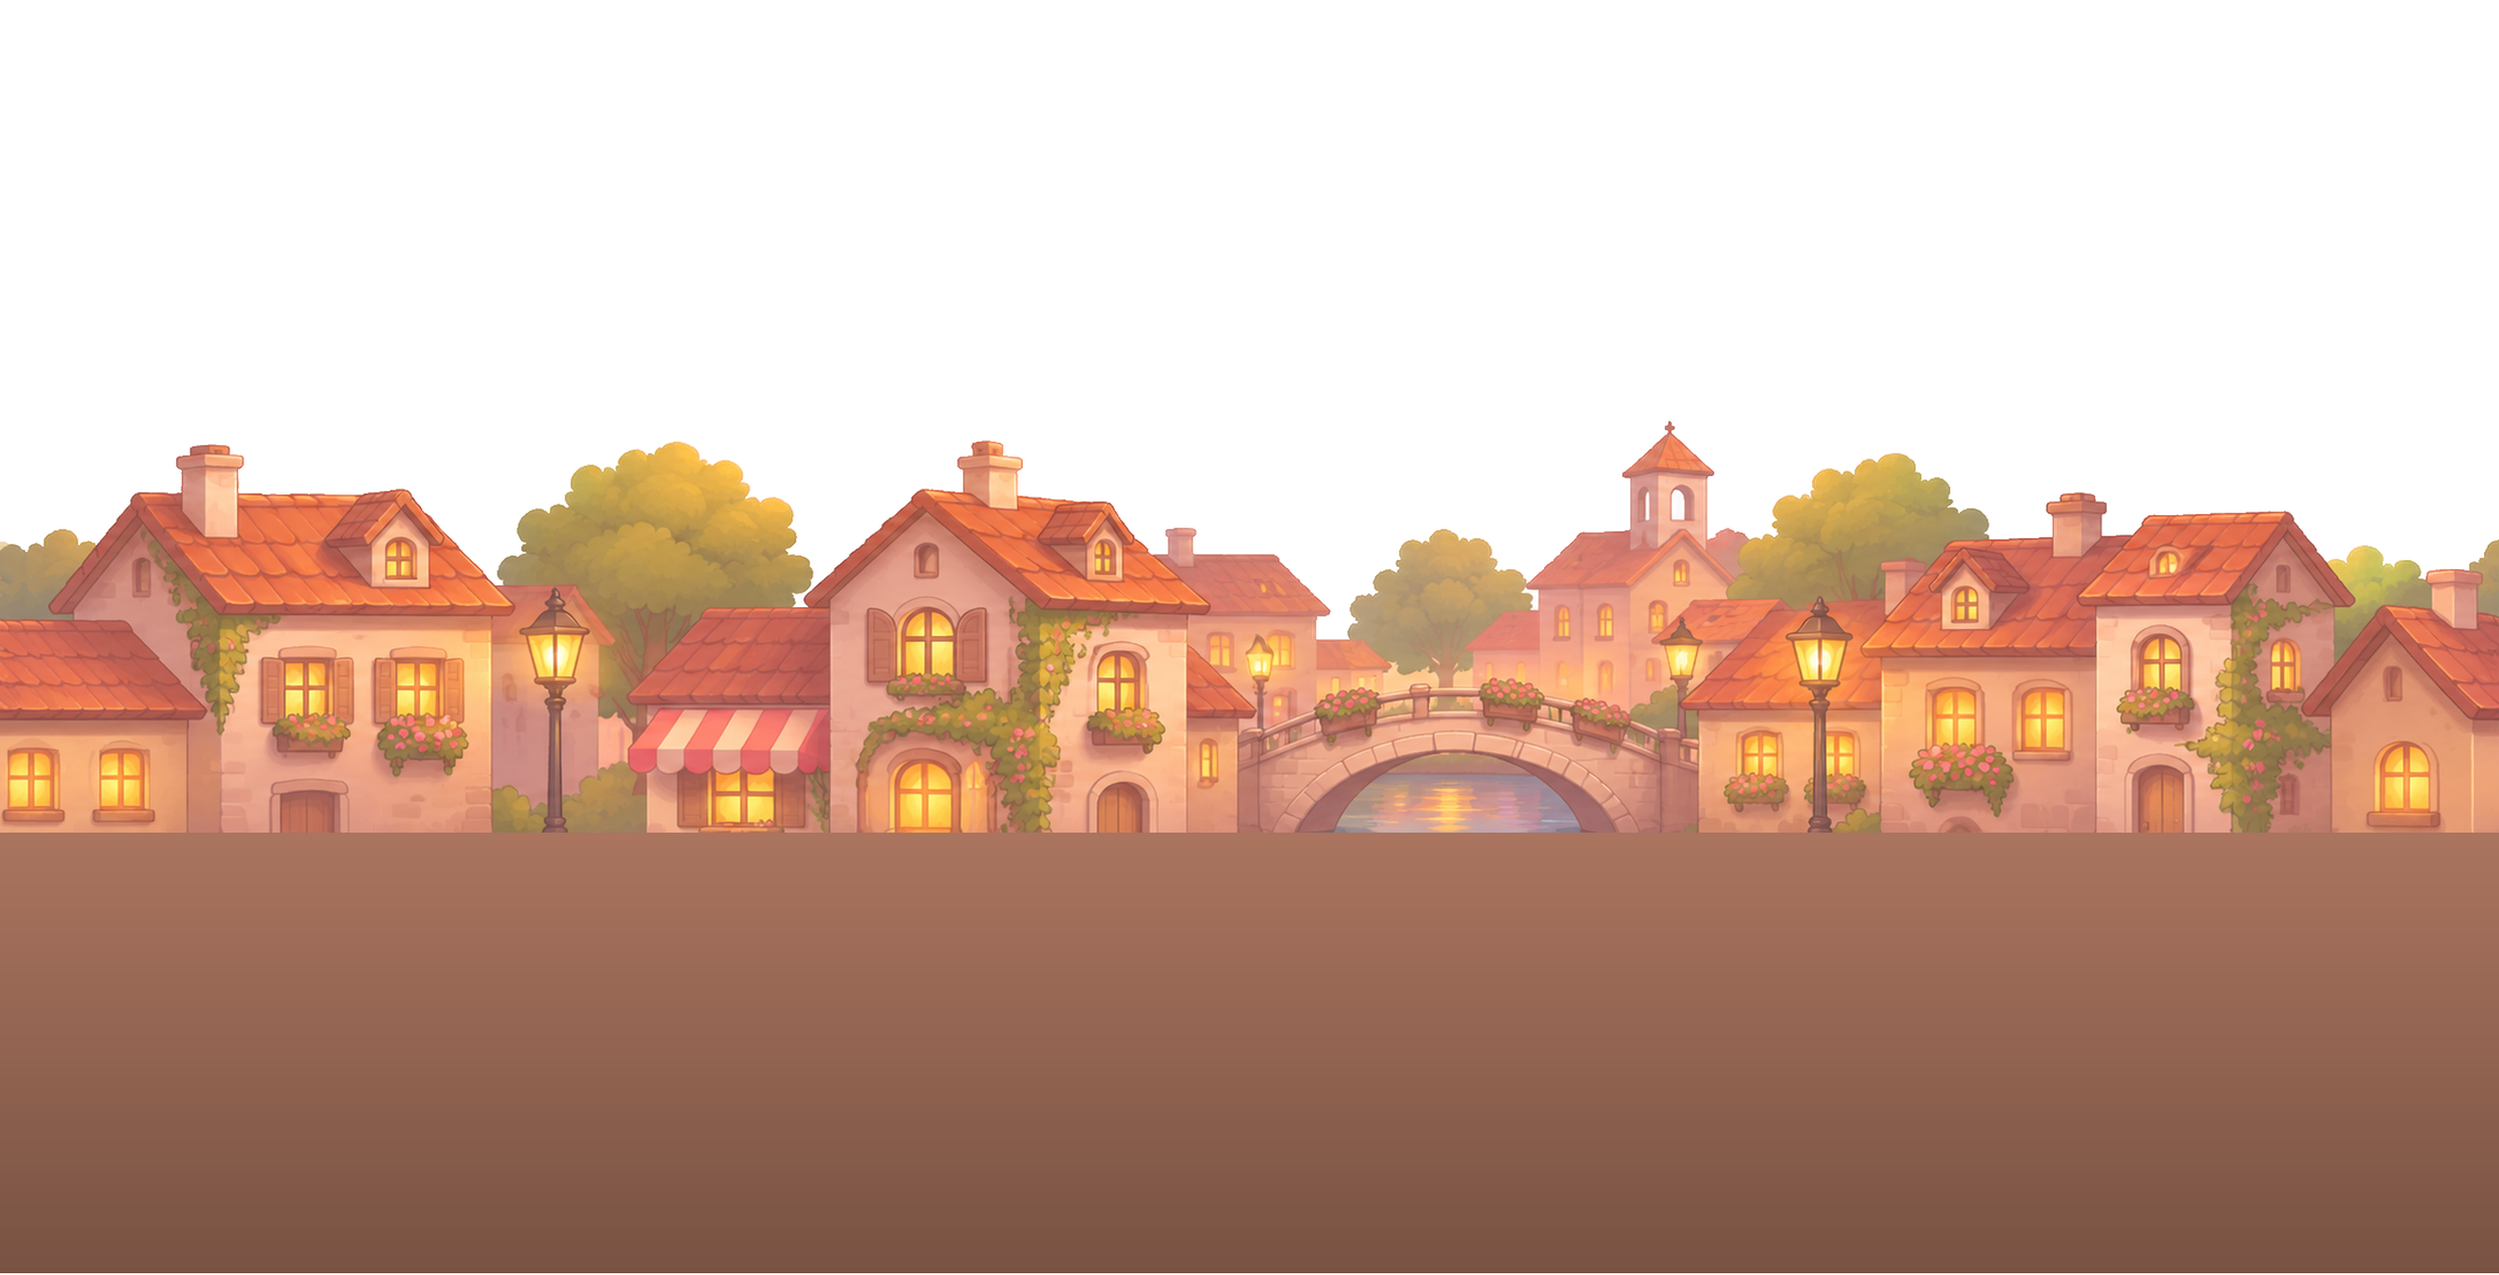
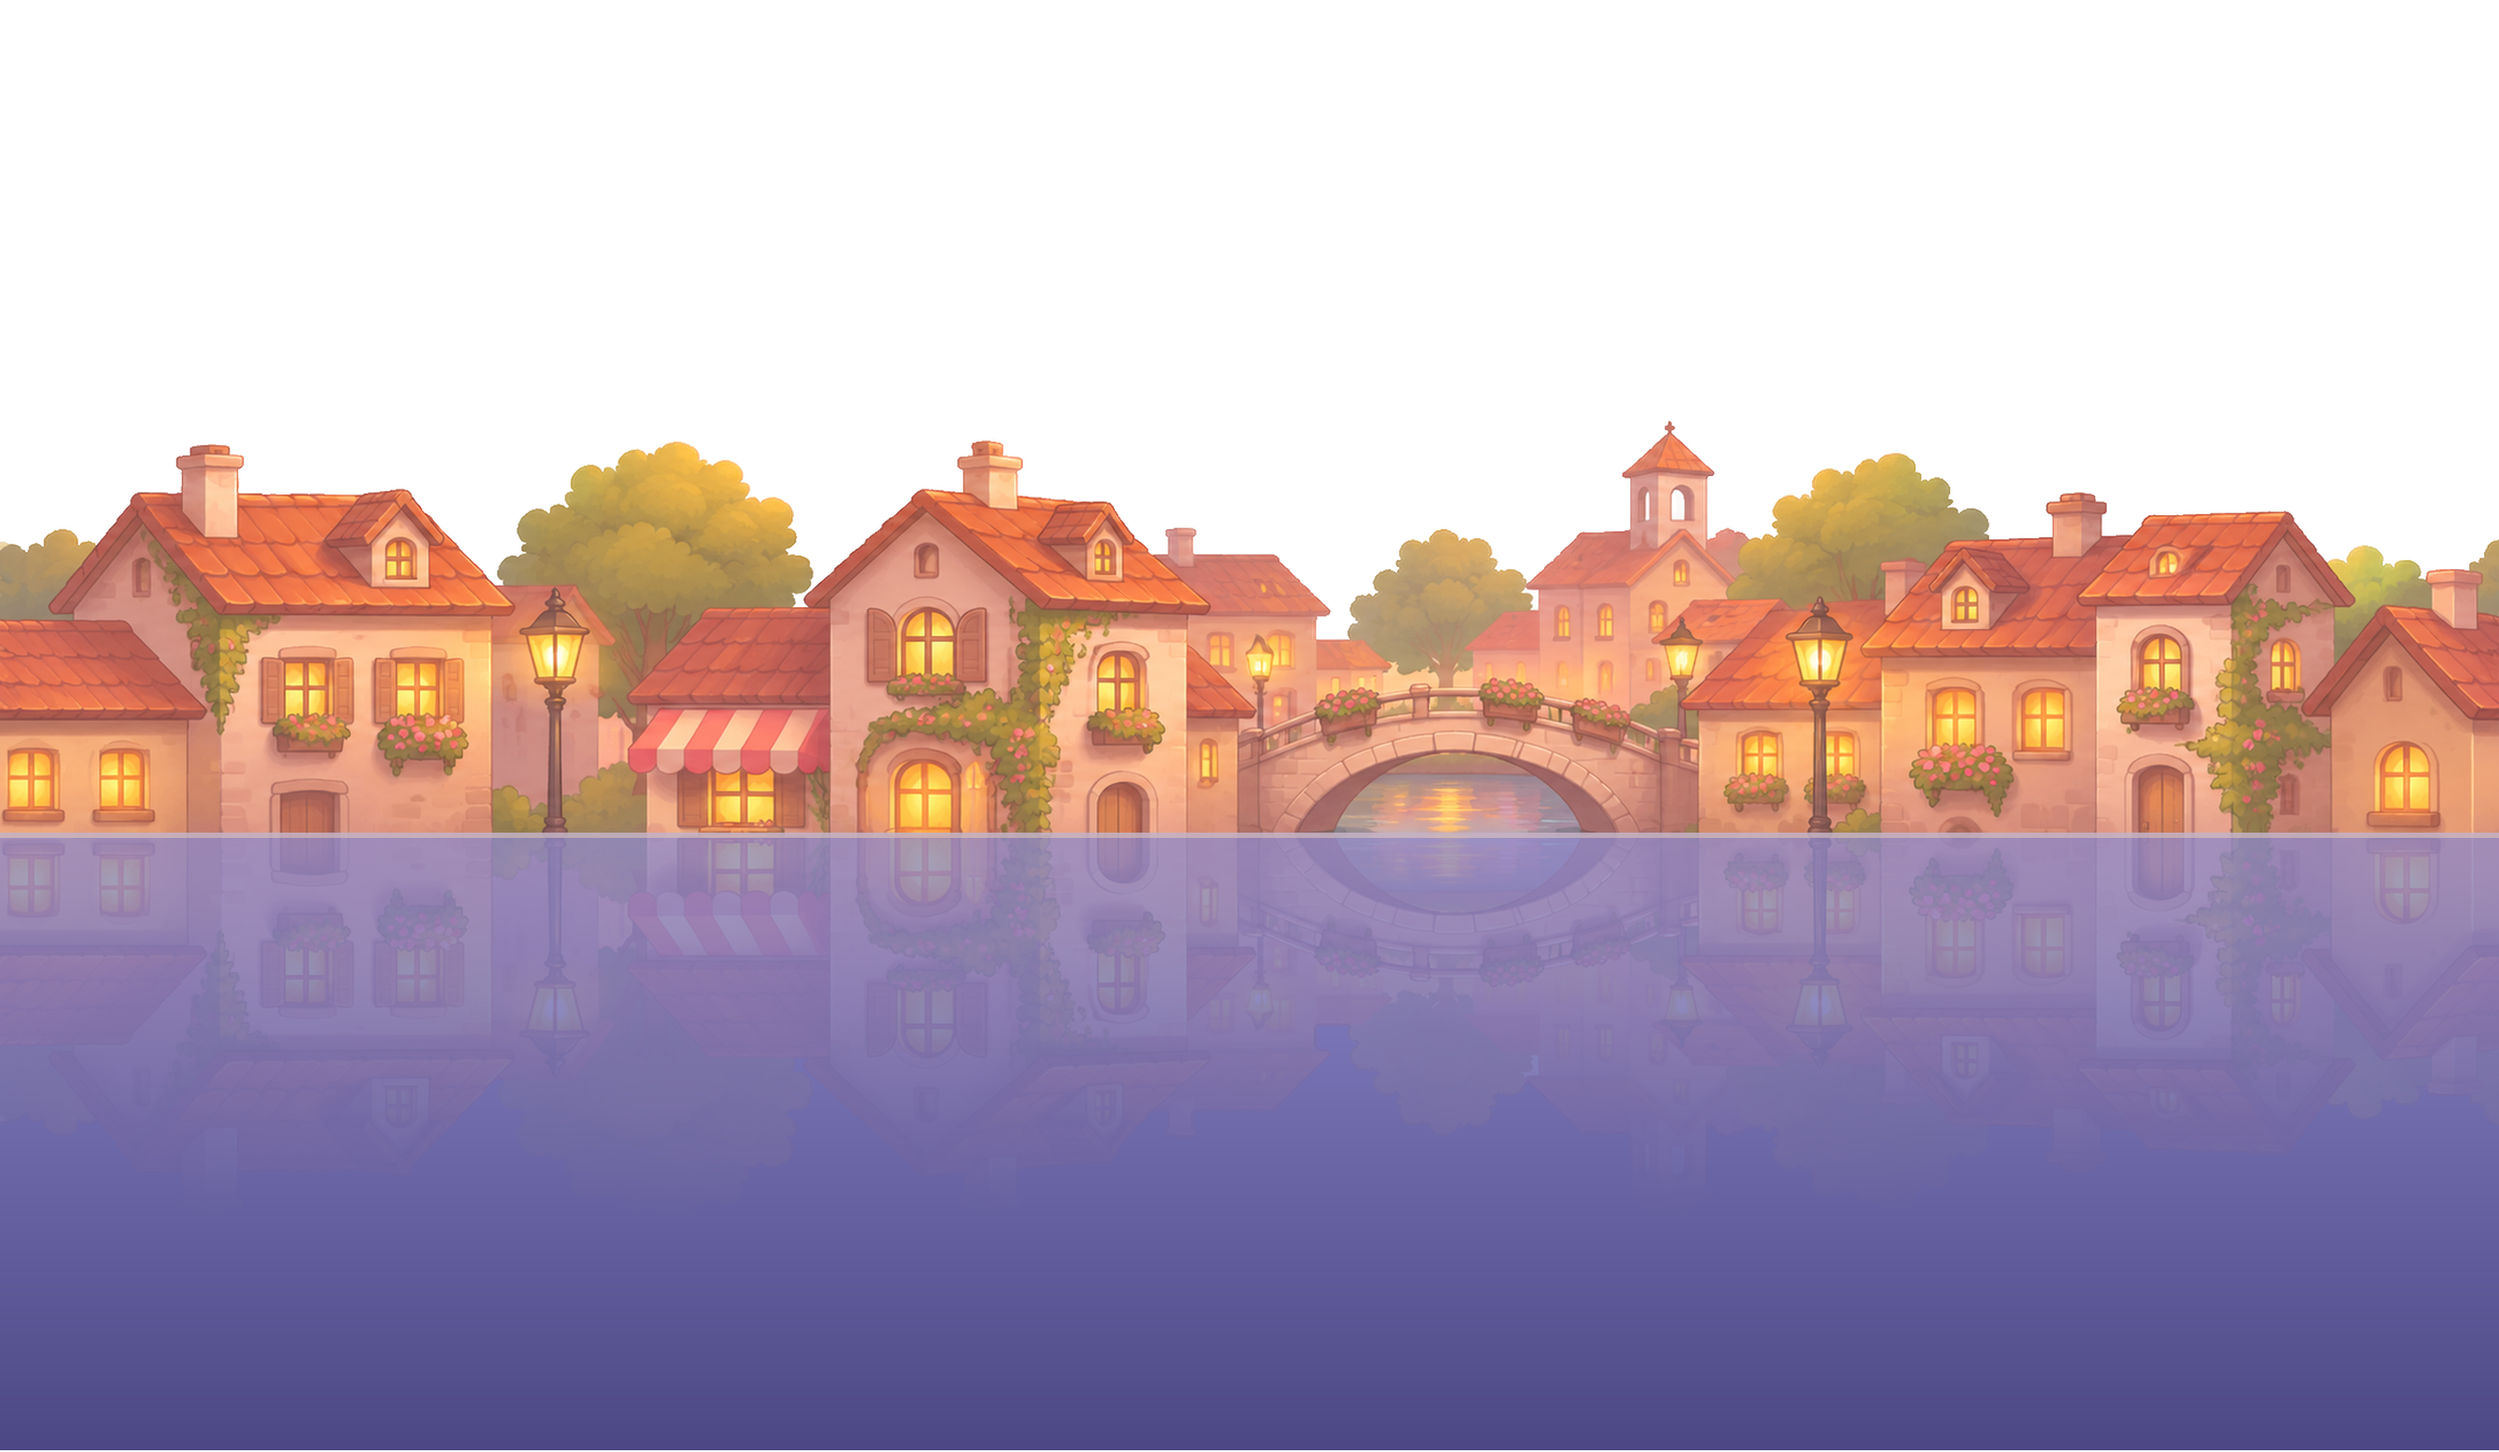
World 2 playtest fixes: canal reflection, orange slimes, variety notes
Looking down from high jumps now shows a canal reflecting the town instead
of a flat brown band. World 2's slimes use the hand-drawn orange slime.
Level-variety ideas for the next worlds recorded in plan.md.

diff --git a/tools/art_pipeline/make_town.py b/tools/art_pipeline/make_town.py
@@ -9,7 +9,8 @@ Ground (assets/art/tiles/town, same pieces as the World 1 meadow kit, see make_g
   decos  - lamp, planter, barrel, crates, bench, pot, bush, stone post
 Background (assets/art/backgrounds/town):
   far    - sunset sky, sun, hazy hills and town (top fades into the plain sky colour)
-  mid    - the row of houses, white sky cut away, a darkening wall continued below
+  mid    - the row of houses, white sky cut away; below them a canal (the World 2 water colours)
+           reflecting the houses upside down, so looking down from a high jump shows water, not a wall
 
 Run:  python tools/art_pipeline/make_town.py   (prints the numbers ground_block.gd uses)
 """
@@ -43,6 +44,10 @@ CRUMBLE_SCALE = 0.476   # roof tile ~300 px wide, like a short ledge
 CRUMBLE_ROWS = (220, 520)            # rows holding all 3 drawings incl. dust and falling bits (raw)
 CRUMBLE_LEFT = (42, 762, 1476)       # left edge of each drawing's box: platforms start 6 px in
 CRUMBLE_WIDTH = 642
+CANAL_ROWS = 700        # canal under the houses layer (game px; a high jump looks this far down)
+WATER_LIGHT = np.array([0.56, 0.54, 0.80])   # the World 2 water colours (water.gd TINTS["town"])
+WATER_DEEP = np.array([0.30, 0.28, 0.52])
+REFLECTION = 0.45       # how strongly the houses show in the water
 FAR_SCALE = 1.45
 MID_SCALE = 1.3
 
@@ -160,12 +165,19 @@ def main():
 
     mid = remove_background(load("Charming Sunset Canal Town Row.png"))
     mid = np.asarray(scaled(to_image(mid), MID_SCALE)).astype(np.float32)
-    wall = mid[-6:, :, :3].reshape(-1, 3)
-    wall = wall[mid[-6:, :, 3].reshape(-1) > 200].mean(axis=0)
-    below = np.zeros((500, mid.shape[1], 4), np.float32)
-    below[..., :3] = wall * np.linspace(0.85, 0.6, 500)[:, None, None]   # darker the deeper you look
-    below[..., 3] = 255
-    mid = np.concatenate([mid, below], axis=0)
+    # The canal: water from light to deep (as the World 2 water), with the houses mirrored in it,
+    # fading out with depth, and a soft bright line where the water meets the houses.
+    rows = CANAL_ROWS
+    water = np.zeros((rows, mid.shape[1], 4), np.float32)
+    depth = np.linspace(0.0, 1.0, rows)[:, None, None]
+    water[..., :3] = (WATER_LIGHT * (1.0 - depth) + WATER_DEEP * depth) * 255.0
+    water[..., 3] = 255
+    mirror = mid[::-1][:rows]
+    strength = (mirror[..., 3:] / 255.0) * REFLECTION * np.clip(1.0 - depth * 1.6, 0.0, 1.0)
+    tinted = mirror[..., :3] * 0.55 + water[..., :3] * 0.45   # the reflection takes on the water's colour
+    water[..., :3] = water[..., :3] * (1.0 - strength) + tinted * strength
+    water[:6, :, :3] = water[:6, :, :3] * 0.6 + np.array([255.0, 225.0, 190.0]) * 0.4   # waterline glint
+    mid = np.concatenate([mid, water], axis=0)
     mid[-2:, :, 3] = 0
     numbers["bg_mid"] = save(mid, BACK / "bg_mid.png")
 

diff --git a/tools/art_pipeline/cut_pieces.py b/tools/art_pipeline/cut_pieces.py
@@ -30,10 +30,11 @@ RECIPES = {
     "Cute Red Mushroom Sprite Pair.png": (ART / "objects", ["mushroom", "mushroom_squash"], None),
     "Cartoon Grass-Topped Wooden Platform.png": (ART / "objects", ["platform_moving"], None),
     "Cartoon Spike Trap Platforms.png": (ART / "objects", ["spikes_short", "spikes_long"], None),
-    # World 1 slime (green row); the orange row is kept in the sheet for later.
+    # World 1 slime (green row) and World 2's orange slime (orange row, same poses).
     "Kawaii Slime Sprite Sheet.png": (
         ART / "enemies" / "slime",
-        ["slime_idle", "slime_move_0", "slime_move_1", "slime_squash", None, None, None, None],
+        ["slime_idle", "slime_move_0", "slime_move_1", "slime_squash",
+         "orange_idle", "orange_move_0", "orange_move_1", "orange_squash"],
         None,
     ),
     # Girl at the level goal: wait -> crouch -> kneel reaching -> kneel arms wide, then the hug loop.
@@ -63,7 +64,8 @@ SHRINK = {ART / "objects": {"yarn_glow": 236, "platform_moving": 604, "yarn": 20
 CENTRED_GROUPS = {
     ART / "objects": [(["coin_0", "coin_1", "coin_2", "coin_3", "coin_4"], "centre"),
                       (["mushroom", "mushroom_squash"], "feet")],
-    ART / "enemies" / "slime": [(["slime_idle", "slime_move_0", "slime_move_1", "slime_squash"], "feet")],
+    ART / "enemies" / "slime": [(["slime_idle", "slime_move_0", "slime_move_1", "slime_squash"], "feet"),
+                                (["orange_idle", "orange_move_0", "orange_move_1", "orange_squash"], "feet")],
     ART / "characters" / "girl": [
         (["girl_wait", "girl_crouch", "girl_kneel_reach", "girl_kneel_open"], "shoe"),
         # The hug sheet is drawn bigger: kneeling height 664 px vs 509 px in the kneel-down sheet.

diff --git a/tools/levels/build_world2.py b/tools/levels/build_world2.py
@@ -21,6 +21,7 @@ TILE_GAP = 120         # crumble bridge: water between the shore and a tile, and
 class TownLevel(Level):
     RES = {
         **RES,
+        "slime": ("PackedScene", "res://scenes/actors/enemies/orange_slime.tscn"),   # World 2's slimes are orange
         "hopper": ("PackedScene", "res://scenes/actors/enemies/hopper_slime.tscn"),
         "crumble": ("PackedScene", "res://scenes/objects/crumble_tile.tscn"),
     }

diff --git a/plan.md b/plan.md
@@ -333,6 +333,7 @@ Order agreed 30 Oct 2026: save system → home page → level map → pause / le
   - ✅ **World 2 moving plank (11 Nov 2026):** the owners' "Charming Wooden Lantern Garden Platform" (boards, iron bands, roof-tile trim, lantern on the left, hanging flower pot on the right) → `assets/art/objects/platform_moving_town.png`, scaled so the **boards** are 290 px; `make_town.py` measures where the boards are (the lantern and pot hang past them) so the game centres the boards, not the whole picture, on the collision (`TOWN_BOARDS_CENTRE_X`).
   - ✅ **Step 4, map with worlds (11 Nov 2026):** `level_map.gd` has a `WORLDS` list (picture, 10 pad spots, girl's spot, name); World 2 = the owners' "Sunset Village Path Adventure" (`map_w2.png`, lossy WebP like World 1's; pads measured from the picture by colour; the girl waits by the red-door house). A wooden sign at the top names the world ("World 2 · Sunset Town") with **◀ ▶ beside it** (first tried at the screen's sides: the ▶ covered level 10 and the girl). The map opens on the world of the next level to play; World 2's pads stay locked until 1-10 is done (the existing unlock rule). Looping map animations now belong to the button/kitten/girl, so switching worlds leaves none running. Test: `dev/m3_map_test.gd` (10 checks).
   - ✅ **Step 5, the 10 levels (11–12 Nov 2026):** `tools/levels/build_world2.py` reuses World 1's recipe builder (`build_world1.py`'s `Level` now takes `world` and `theme`; World 1's files come out byte-for-byte the same) and adds `flat(hoppers=…)`, **`crumble_steps(n)`** (a roof-tile staircase, 170 px up and 330 px along per tile, to a ledge too high to jump, with safe street underneath) and **`crumble_bridge(n)`** (tiles level with the street over the canal, 120 px hops). Levels: 2-1 Rooftop Welcome 12.2k px · 2-2 Chimney Hop 12.1k · 2-3 Canal Crossing 12.7k · 2-4 Market Street 12.6k · 2-5 Clock Tower 13.5k · 2-6 Hopper Square 13.9k · 2-7 Bell Rooftops 14.2k · 2-8 Long Canal 16.2k · 2-9 Sunset Run 18.9k (hardest: 4-tile bridge, 3-tile steps, hoppers, slimes, spikes) · 2-10 Home Street 13.2k (calm finale, big hug, "World 2 complete!"). Catalog now **20 levels** (`tools/make_level_data.gd`); names in `strings.csv`. Fairness test knows hoppers (danger zone = path + 200 px) and tiles (count as a way across / up): all 20 levels pass (one hopper/slime pair in 2-4 moved 20 px apart). Play-through test now plays every crumbling-tile crossing (18 in World 2) like a player: all pass with no heart lost. **"Perfect Meadow" and "Yarn Master" now count World 1 only** (they would otherwise have needed 60 stars / 20 yarns); the home top bar and "Most stars" count all worlds (x / 60). ⬜ World 2's own achievements ("Sunset Stroll" – finish World 2, "Golden Hour" – all 30 World 2 stars) to be created in Play Console by the owners, then wired like the others.
+  - **Owners' playtest of World 2 on the dev phone (12 Nov 2026), fixes:** (1) a flat brown band showed below the houses whenever the camera went up (high jumps, staircases) → the houses layer now continues into a **canal reflecting the town** (World 2 water colours, mirrored houses fading with depth, a glint at the waterline; `make_town.py`). (2) **World 2's slimes are orange**: the hand-drawn orange row of the concept slime sheet, now cut by `cut_pieces.py` (`orange_*.png`), in `orange_slime.tscn` (same slime script); a recolour of the green slime was tried and looked muddy. (3) Levels feel too similar → ideas noted in §13.3 for the next worlds. (4) Map animations (cat walks to the next level; "World 2 unlocked") → being built.
   - **Code work:** theme switch for ground/background (`GroundBlock`, parallax), crumbling tile, hopper slime, level data for 20 levels, map world switch + unlock, World 2 achievements, fair-play + play-through tests extended to the new hazard and enemy.
 - [ ] Remaining animations, music, SFX
 - [ ] All achievements + leaderboards (+ offline queue)
@@ -389,3 +390,15 @@ Recorded 11 Nov 2026 from the owners' notes. **Not in the current build**; each 
 - **Duolingo-style feel:** friendly, never blocking — a clear "Go Premium" button (home page or after an ad), a small thank-you for Premium players (e.g. a badge or an exclusive cat colour, to decide).
 - **Needed before the ads update ships:** AdMob account + app + ad units (owners), app-ads.txt on `wiwiwi.digicraft.one`, consent message for EU/UK users (Google's UMP), Play Console "Contains ads" = Yes, Data safety and `/privacy` updated, ad test devices so we never click our own live ads.
 
+### 13.3 Level variety (owners' playtest of World 2, 12 Nov 2026)
+**Feedback:** "all the levels and terrain look very similar" — every level is the same long flat street with pits, planks and enemies. Take inspiration from **Lep's World and Super Mario** (structure and ideas only, nothing copied) so each level feels different. **Decision: note it now, apply from the next worlds on** (a World 2 variety pass can follow if the owners want it). Ideas, cheapest first:
+- **One signature moment per level** that no other level has (e.g. a tall tower climb, a long crumbling bridge, a hopper festival square, a dark tunnel) — and the level's name says it.
+- **Terrain shape:** hills and slopes, stepped streets going up and down, low ceilings / tunnels you walk under, floating-island chains, tall cliffs — not one long flat strip.
+- **Two routes:** a high path (harder, more coins, the Golden Yarn) and a safe low path, like Lep's World.
+- **Blocks you bump from below** for coins (Mario "?" blocks / Lep's boxes) — a new interactive object, reusable in every world.
+- **Secret bonus rooms:** a hidden doorway, chimney or pipe that leads to a short coin room and back.
+- **Vertical sections:** climb up (ledges, lifts, bouncers) then run along the top; or drop down a shaft collecting coins.
+- **Set pieces:** rising water, a short auto-scroll ride (raft / cart), wind gusts, a chase.
+- **Mood changes inside a world:** e.g. World 2 going from late afternoon → deep dusk → lamps lit across its 10 levels (background tint per level).
+- **A small boss or "guardian" at each world's end** (simple pattern, stomp it 3 times).
+- **Bouncers and moving ground:** springs, conveyor belts, see-saws.
